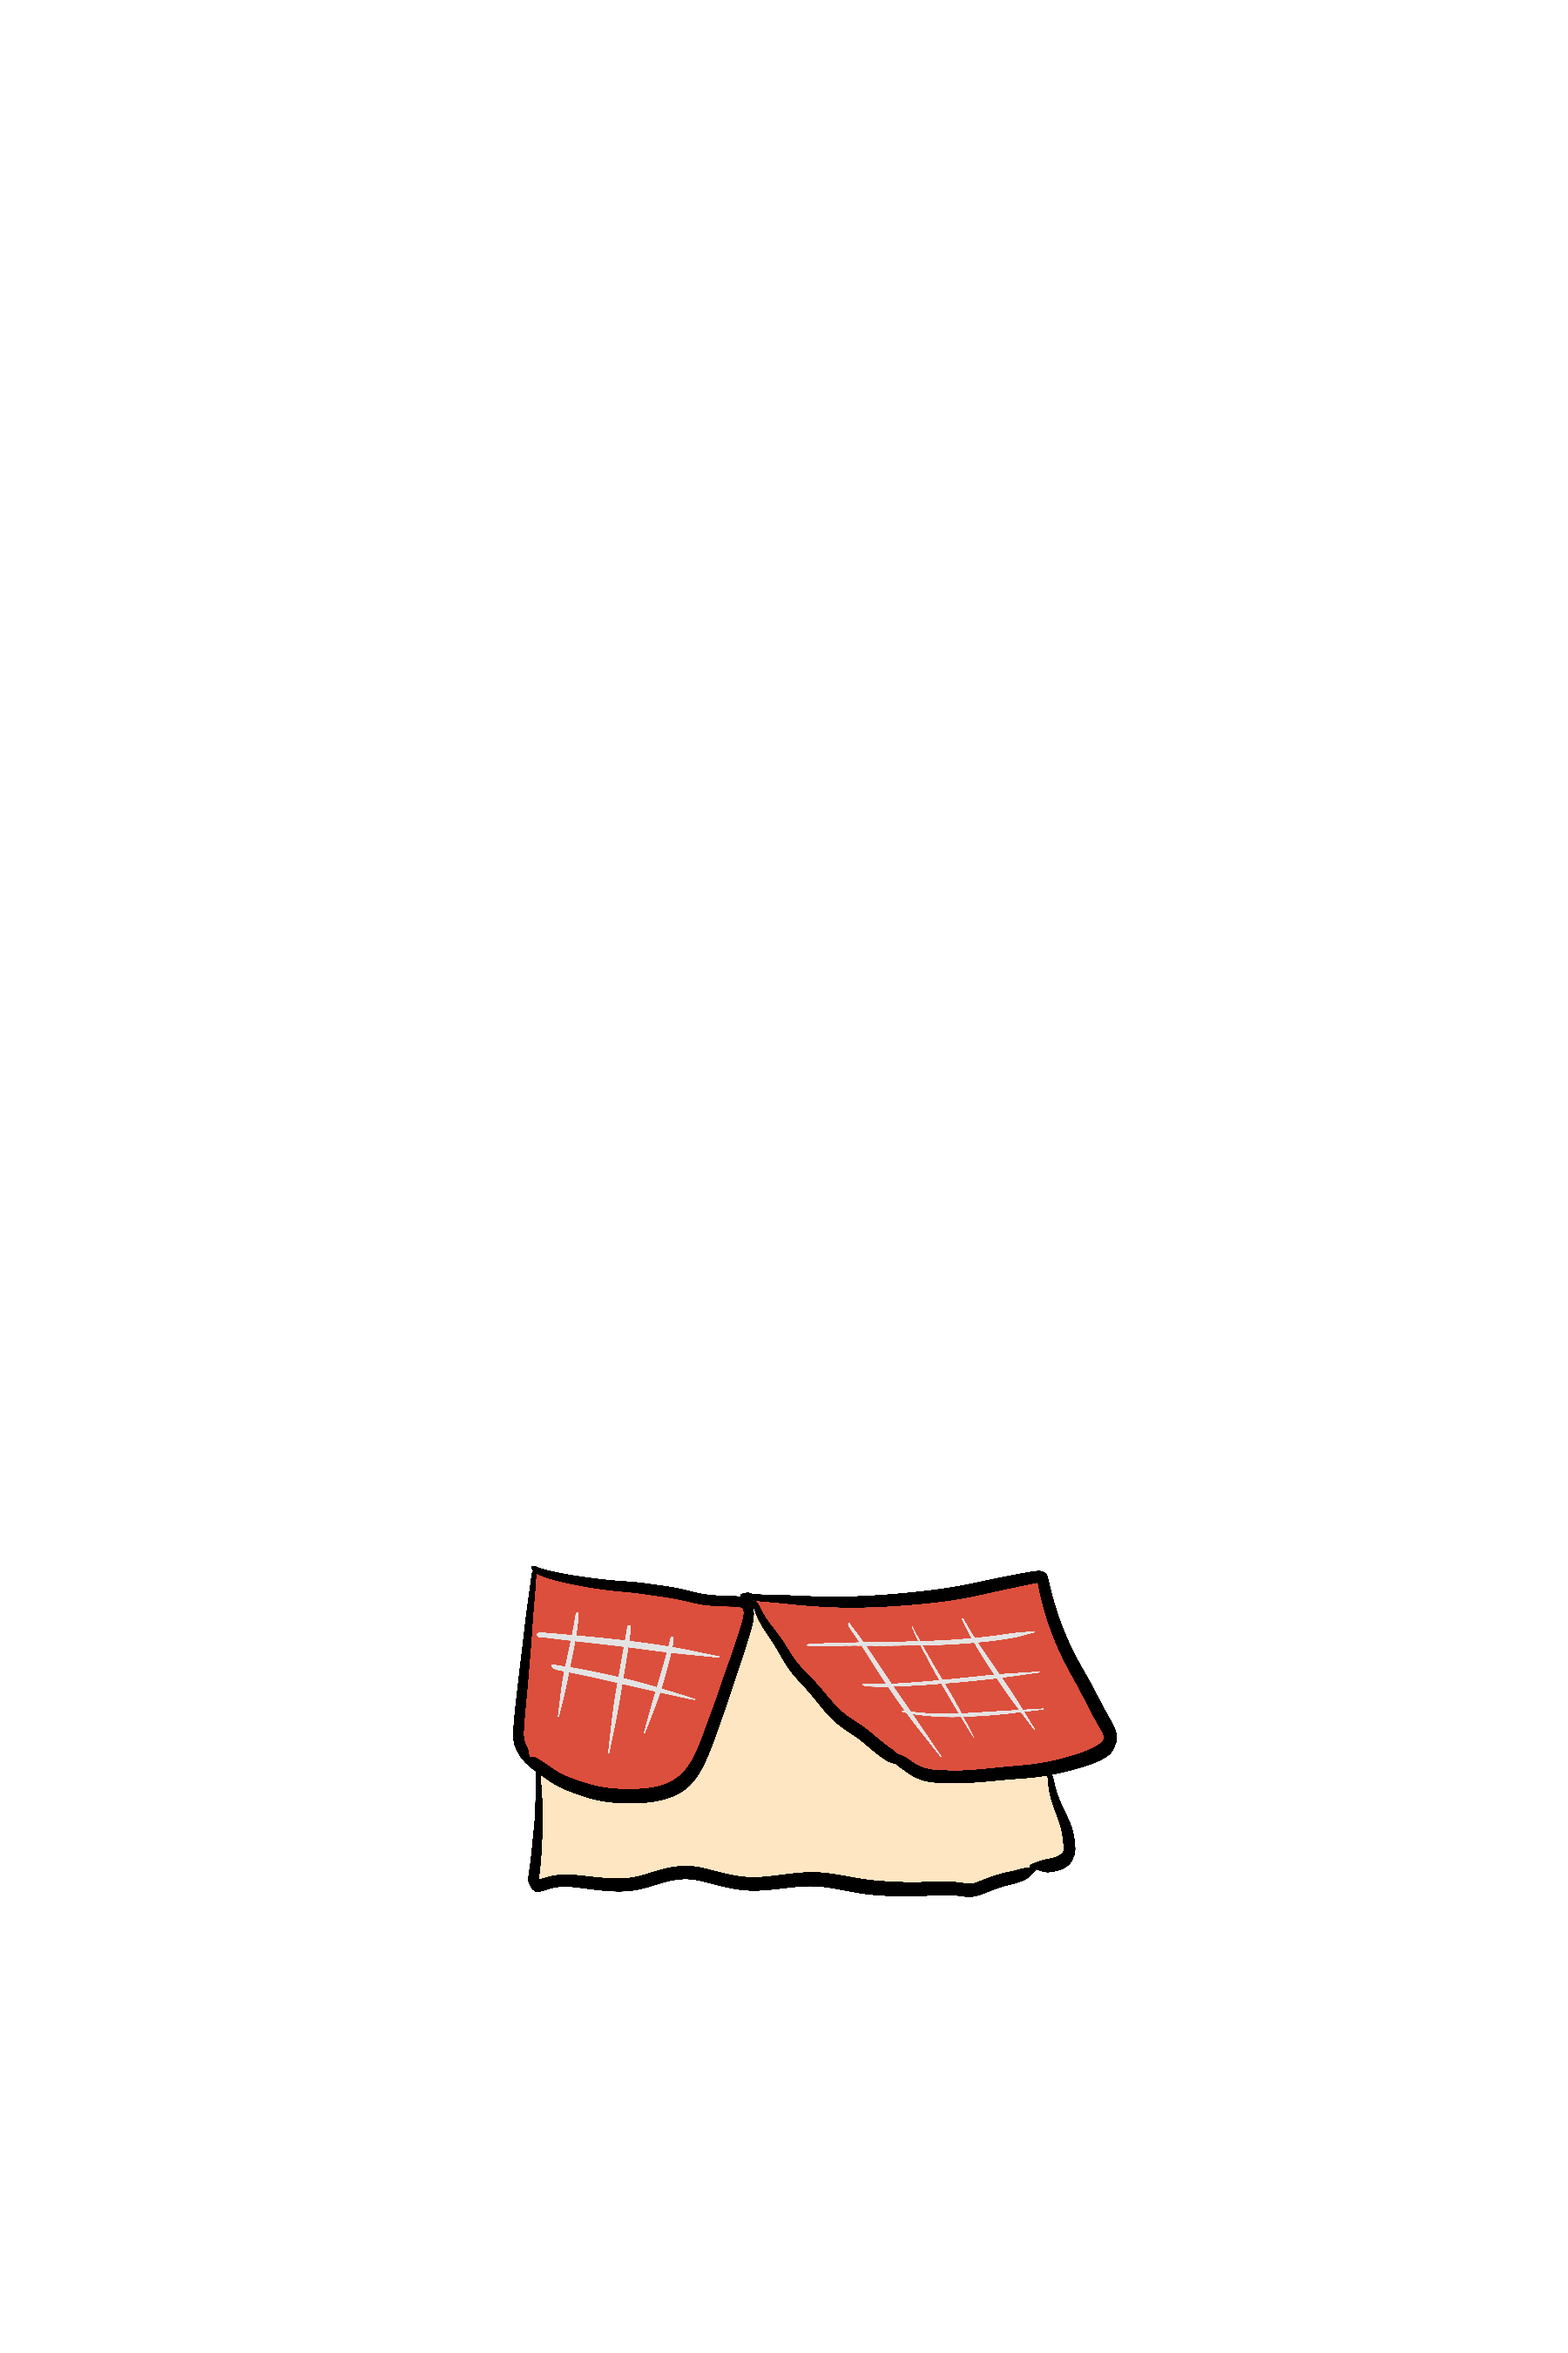
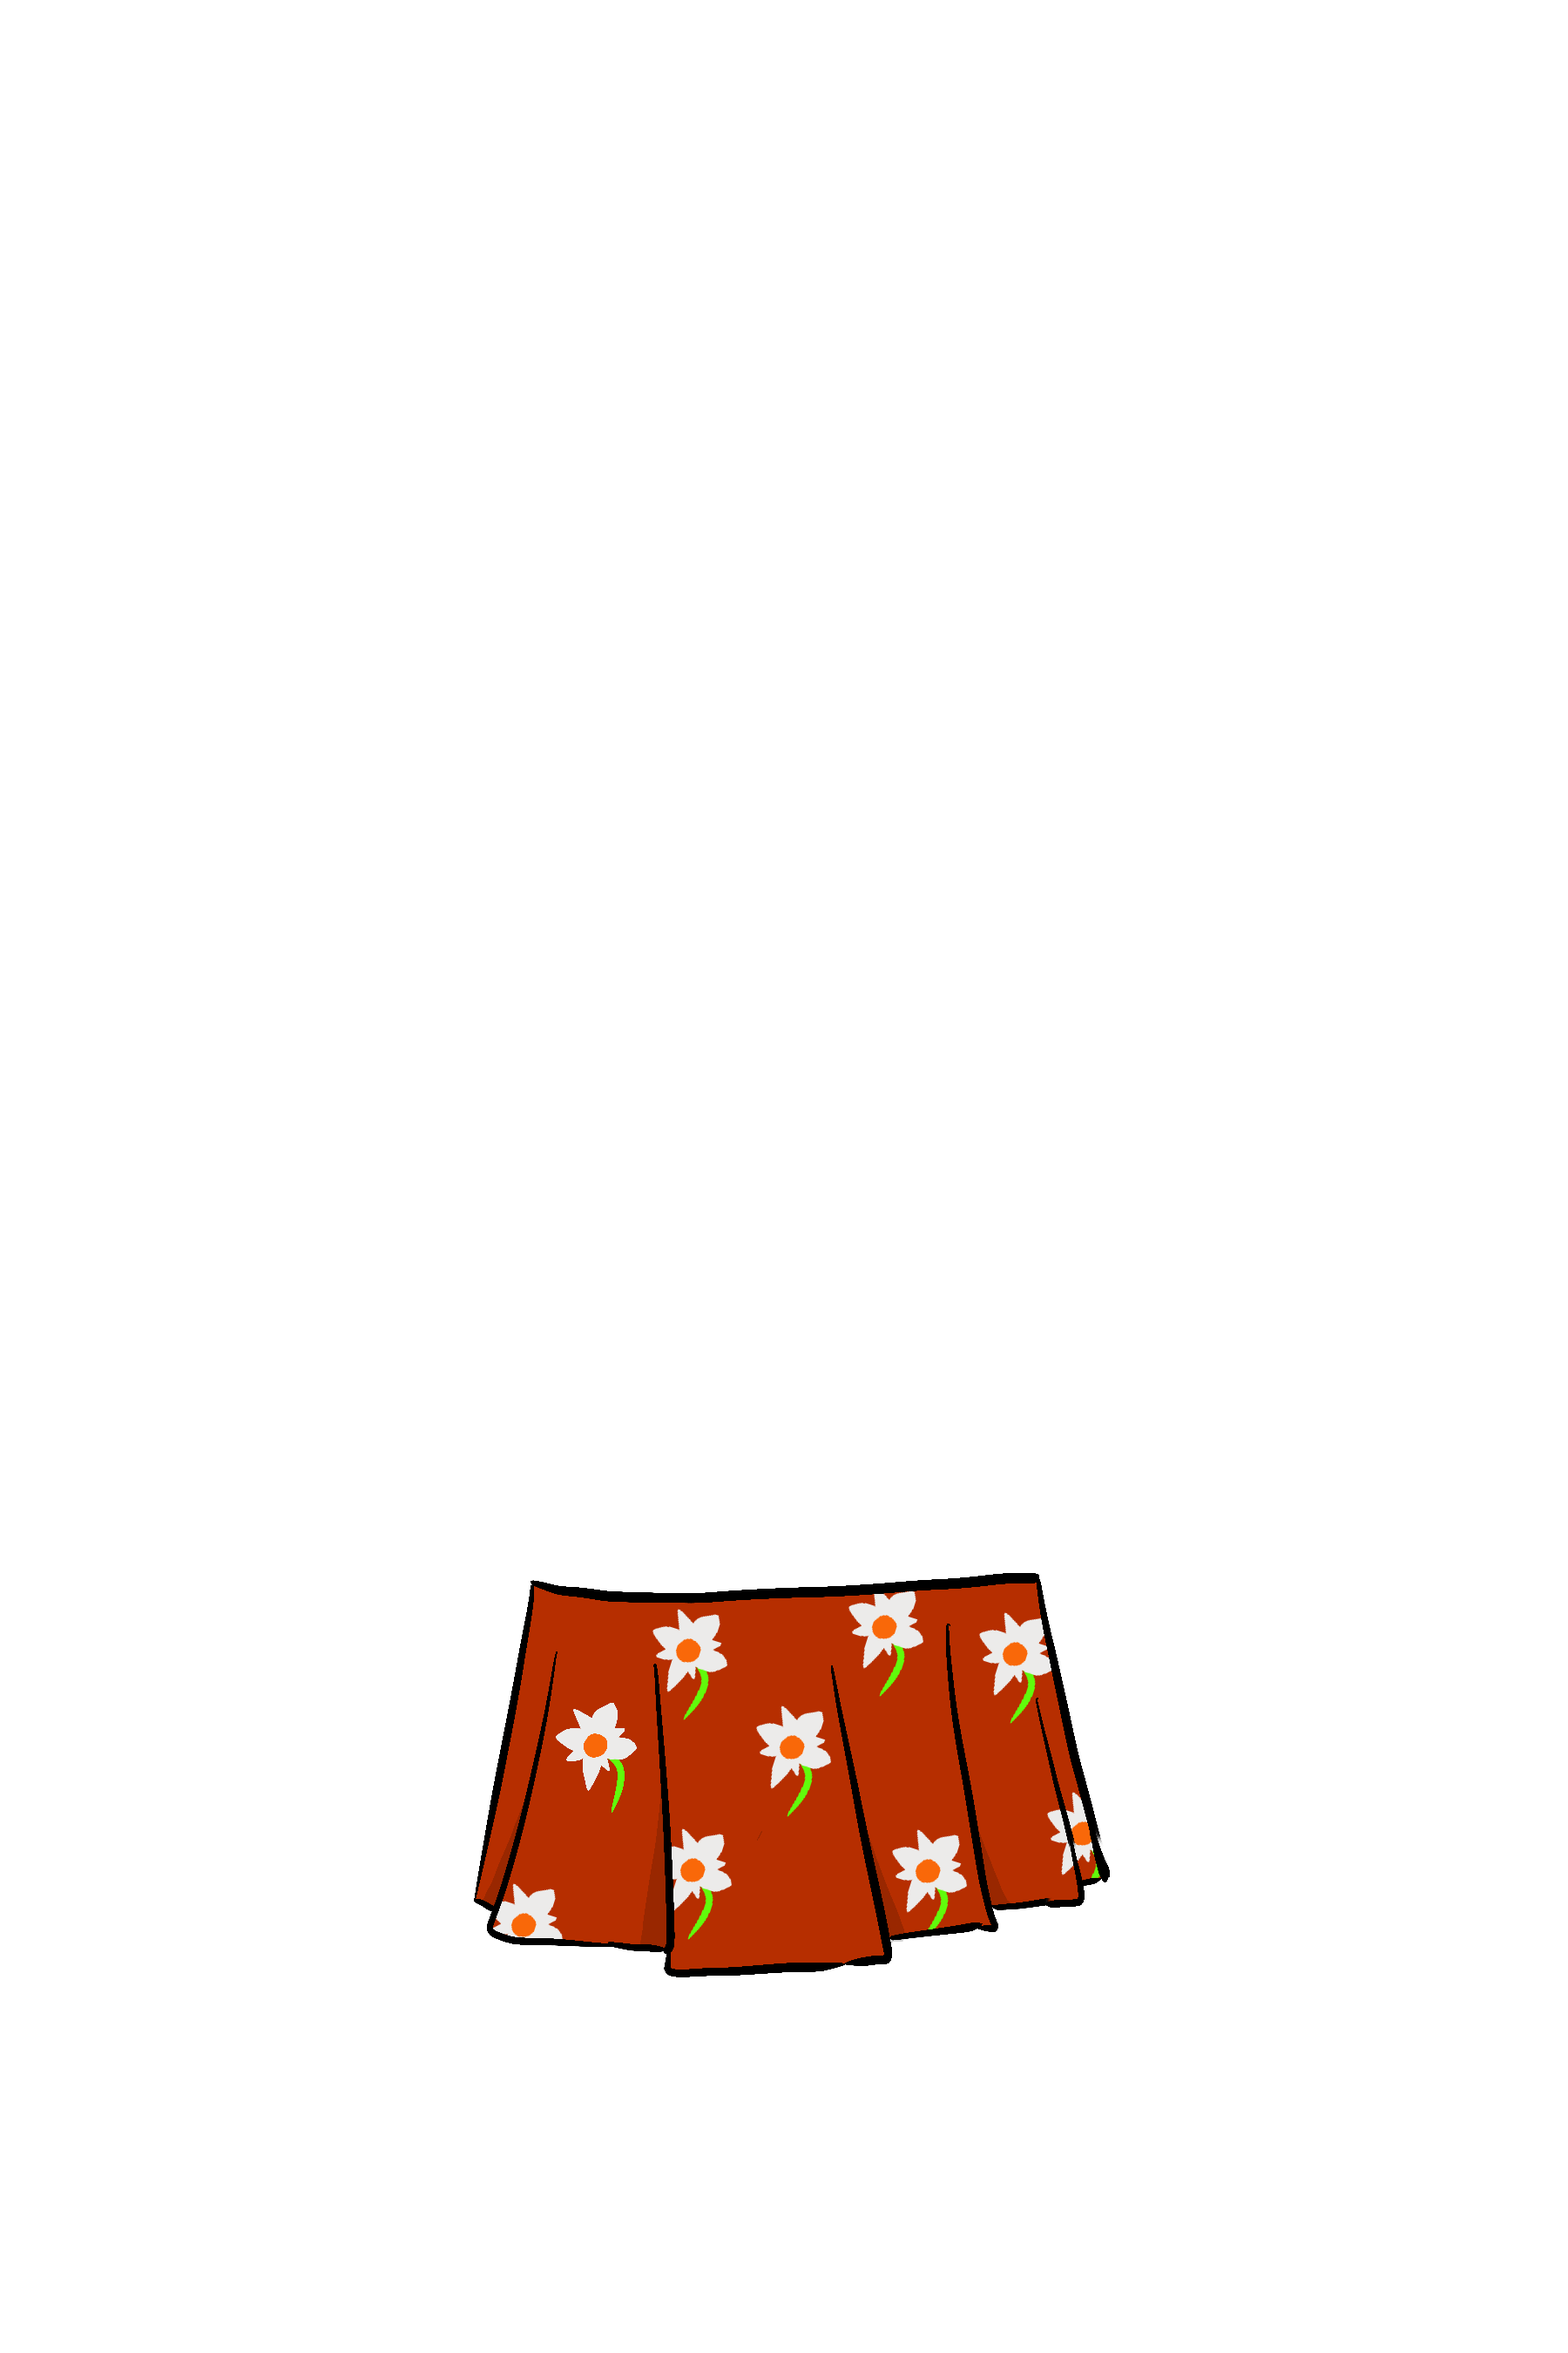
Improved girl in dress up in culture

Changed region(s): [[0.28, 0.6533, 0.7156, 0.84]]

diff --git a/src/constants/temp_db/activities/db_DressUp.js b/src/constants/temp_db/activities/db_DressUp.js
@@ -14,7 +14,7 @@ export const db_DressUp = {
               id: 1,
               name: 'Totoy',
               gender: 'boy',
-              prev: require('../../../img/act/dress-up/grade-one/first/boy/character-boy.png'),
+              prev: require('../../../img/act/dress-up/grade-one/first/boy/preview/character-boy-prev.png'),
               img: require('../../../img/act/dress-up/grade-one/first/boy/character-boy.gif'),
             },
 
@@ -22,8 +22,8 @@ export const db_DressUp = {
               id: 2,
               name: 'Inday',
               gender: 'girl',
-              prev: require('../../../img/act/dress-up/grade-one/first/girl/character-girl.png'),
-              img: require('../../../img/act/dress-up/grade-one/first/girl/character-girl.png'),
+              prev: require('../../../img/act/dress-up/grade-one/first/girl/preview/character-girl-prev.png'),
+              img: require('../../../img/act/dress-up/grade-one/first/girl/character-girl.gif'),
             },
           ],
           boy: {

diff --git a/src/components/activities/dress-up/Character.js b/src/components/activities/dress-up/Character.js
@@ -10,8 +10,8 @@ const Character = () => {
   return (
     <View style={[centered, { width: '100%', height: '100%' }]}>
       <Image source={character} style={imgStyle} resizeMode="contain" />
-      <Image source={bottom} style={imgStyle} resizeMode="contain" />
       <Image source={shoes} style={imgStyle} resizeMode="contain" />
+      <Image source={bottom} style={imgStyle} resizeMode="contain" />
       <Image source={top} style={imgStyle} resizeMode="contain" />
       <Image source={accessories} style={imgStyle} resizeMode="contain" />
     </View>

diff --git a/src/screens/activities/dressup-in-culture/DressUpNav.js b/src/screens/activities/dressup-in-culture/DressUpNav.js
@@ -47,7 +47,6 @@ const DressUpNav = () => {
   }
 
   useEffect(() => {
-    console.log('Sheesh: ', top)
     if (gameData) {
       const custPosition = {
         position: 'absolute',
